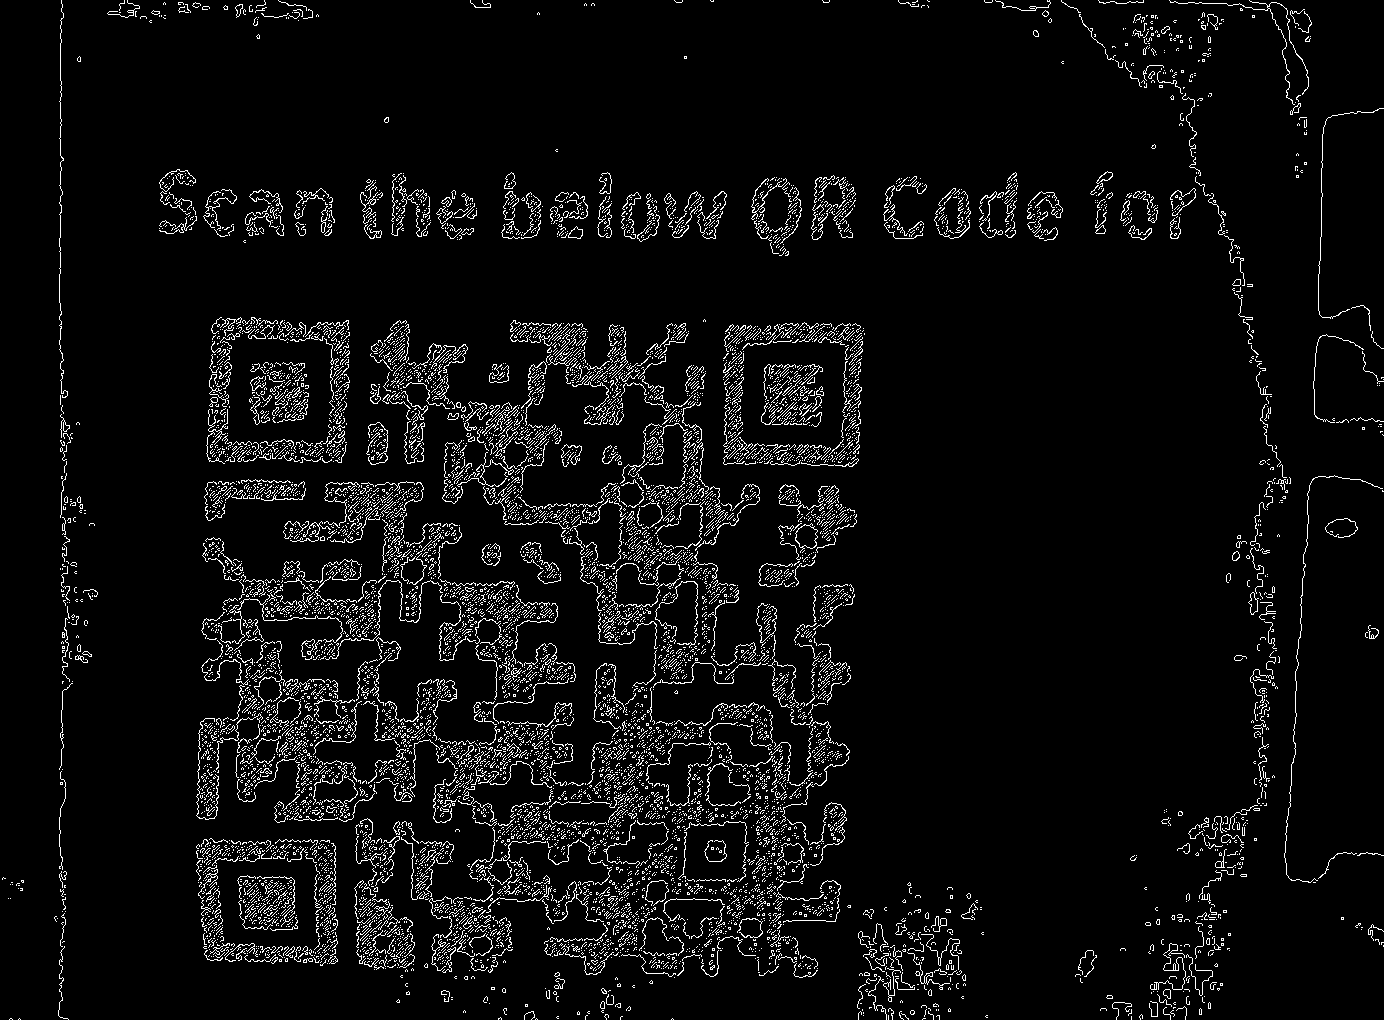
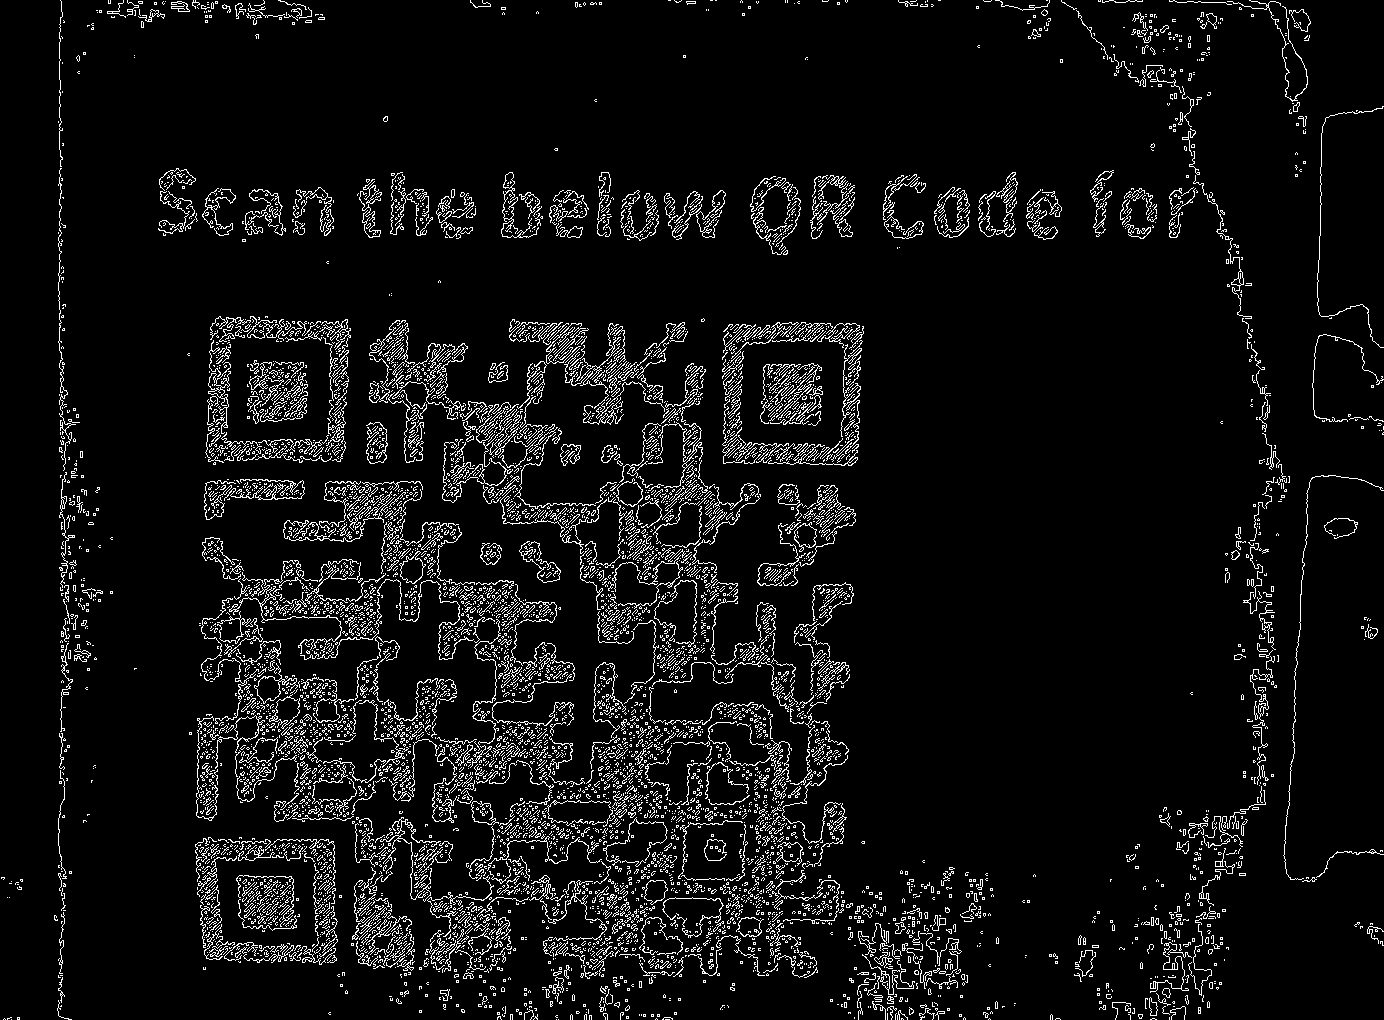
5x bilateral filter doesn't nuke it

diff --git a/main.py b/main.py
@@ -9,8 +9,7 @@ threshold2 = int(sys.argv[2]) if len(sys.argv) > 2 else 100
 #  first to binary
 th, im_th_gray = cv2.threshold(image,170,255,cv2.THRESH_BINARY)
 #  ----------------------
-# then add kernel for erosion to binary image
-kernel = np.ones((2, 2), np.uint8)
+# then add kernel for closing to binary image
 
 def ResizeWithAspectRatio(image, width=None, height=None, inter=cv2.INTER_AREA):
     dim = None
@@ -28,11 +27,13 @@ def ResizeWithAspectRatio(image, width=None, height=None, inter=cv2.INTER_AREA):
     return cv2.resize(image, dim, interpolation=inter)
 #  ----------------------
 # Apply morphological closing
-closed_img = cv2.morphologyEx(im_th_gray, cv2.MORPH_CLOSE, kernel)
-resized = ResizeWithAspectRatio(closed_img, width=400)
+for _ in range (5):
+    blt = cv2.bilateralFilter(im_th_gray,20,100,100)
+
+resized = ResizeWithAspectRatio(blt, width=400)
 #  ----------------------
 # resize and show image 
-cv2.imshow('erosion on binary',resized)
+cv2.imshow('closing on binary',resized)
 cv2.waitKey(500)
 
 # image_gray = cv2.cvtColor(image,cv2.COLOR_BGR2GRAY)
@@ -45,7 +46,7 @@ cv2.waitKey(500)
 
 #  ----------------------
 # do edge detection and save file 
-edges = cv2.Canny(image=closed_img, threshold1=threshold1, threshold2=threshold2)
+edges = cv2.Canny(image=blt, threshold1=threshold1, threshold2=threshold2)
 
 cv2.imwrite('qr2.png', edges)
 cv2.imshow('edges',resized)
